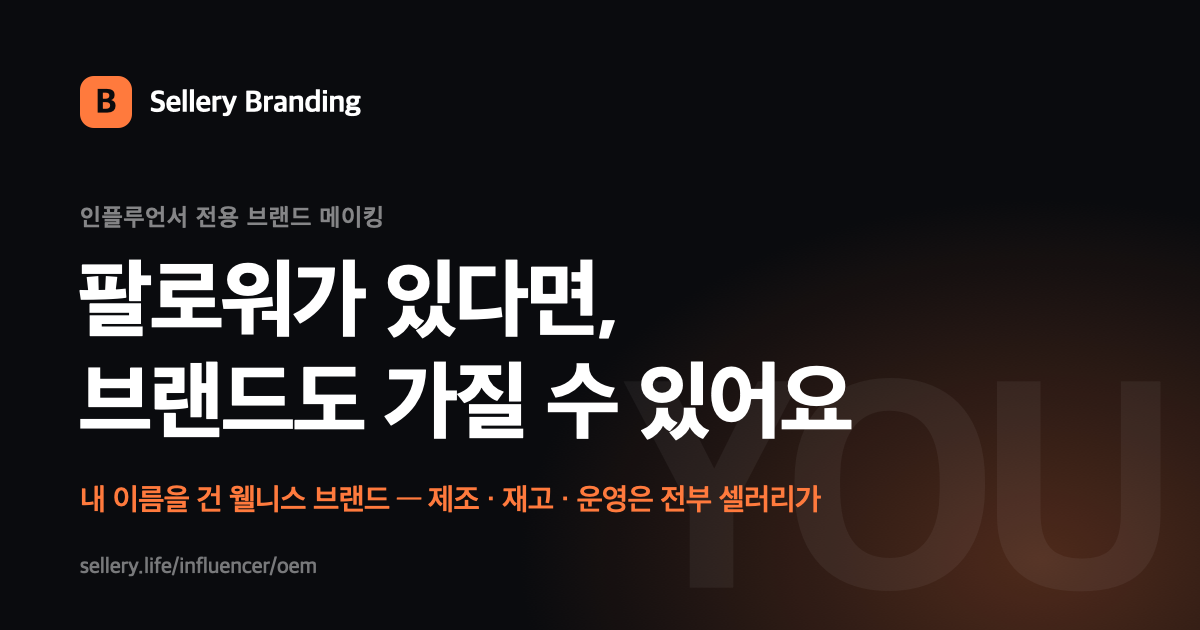
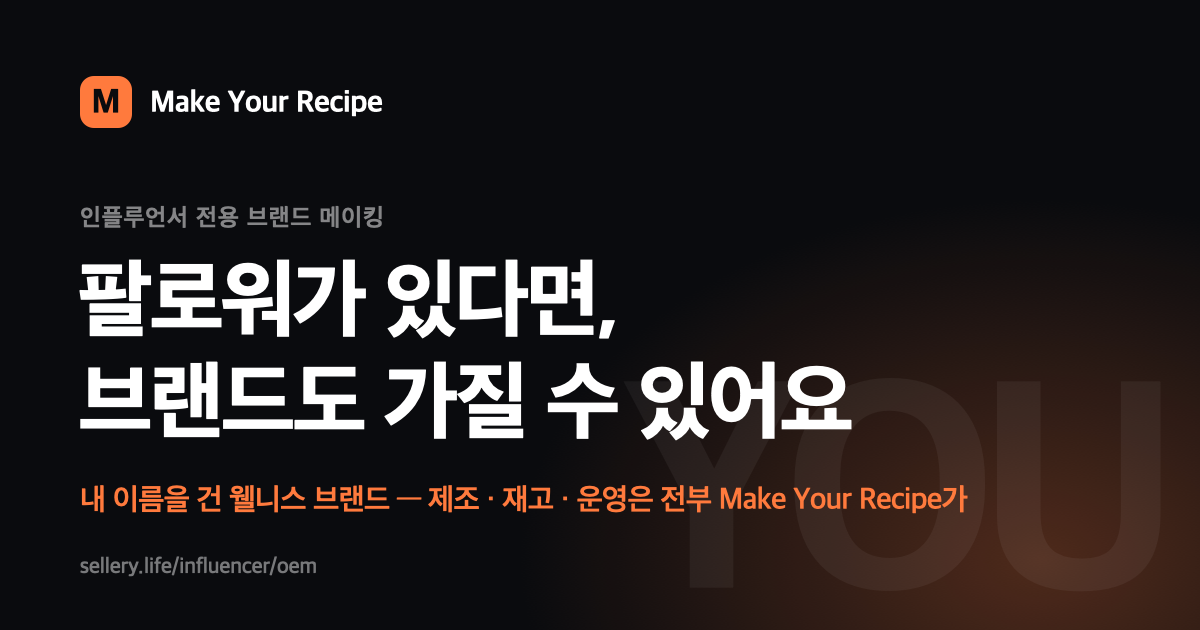
브랜딩 랜딩·퍼널 서비스 이름을 "Make Your Recipe"로: 워드마크(상단 바·데스크톱 레일) · 제목 · og:site_name · 슬라이드 문구("부담은 ~가" 등) · 슬랙 접수 태그 · OG 이미지 — 개발팀 결정

Changed region(s): [[0.0617, 0.1206, 0.3392, 0.181], [0.5858, 0.754, 0.8017, 0.8143]]

diff --git a/apps/branding/src/lib/components/landing/BurdenSlide.svelte b/apps/branding/src/lib/components/landing/BurdenSlide.svelte
@@ -1,12 +1,12 @@
 <script lang="ts">
 	import { d, eyebrowCls, h2Cls, rightCol, rise, slideCls, twoCol } from './shared';
 
-	/** 3장 · 부담은 셀러리가 — "내가 할 일" 칸의 짐이 "셀러리가 할 일" 칸으로 하나씩 건너가는 표. 칩을 누르면 아래 설명이 바뀐다. */
+	/** 3장 · 부담은 Make Your Recipe가 — "내가 할 일" 칸의 짐이 "Make Your Recipe가 할 일" 칸으로 하나씩 건너가는 표. 칩을 누르면 아래 설명이 바뀐다. */
 	let { active }: { active: boolean } = $props();
 
 	const BURDENS = [
-		{ t: '재고 부담', n: '0', d: '생산량 결정도, 창고도, 남는 재고도 셀러리가 책임져요.' },
-		{ t: '제조비용', n: '0', d: '제조 비용은 셀러리가 먼저 부담, 판매분만 정산해요.' },
+		{ t: '재고 부담', n: '0', d: '생산량 결정도, 창고도, 남는 재고도 Make Your Recipe가 책임져요.' },
+		{ t: '제조비용', n: '0', d: '제조 비용은 Make Your Recipe가 먼저 부담, 판매분만 정산해요.' },
 		{ t: '행정 리스크', n: '0', d: '인허가, 표시·광고 검토 등 전부 대행해요.' },
 		{ t: '전담 매니저', n: '1:1', d: '컨셉부터 론칭까지 담당자가 끝까지 함께해요.' },
 		{ t: '샘플 제작', n: '빠름', d: '검증된 제조 파트너와 빠르게 샘플을 확인해요.' }
@@ -27,16 +27,16 @@
 	const twoColLift = `${twoCol} mb-2 lg:mb-0`;
 </script>
 
-<section class={slideCls} aria-label="셀러리가 맡는 일">
+<section class={slideCls} aria-label="Make Your Recipe가 맡는 일">
 	<div class={twoColLift}>
 		<div class="relative">
-			<p class="{eyebrowCls} {rise(active)}" style={d(0)}>부담은 셀러리가</p>
+			<p class="{eyebrowCls} {rise(active)}" style={d(0)}>부담은 Make Your Recipe가</p>
 			<h2 class="{h2Cls} {rise(active)}" style={d(1)}>브랜드를 운영하는 데<br />필요한 모든 걸 준비했어요</h2>
 		</div>
 		<div class="{rightCol} mt-4 short:mt-3.5 lg:ml-auto lg:w-full lg:max-w-[560px] {rise(active)}" style={d(2)}>
 			<div class="grid grid-cols-2 gap-2 text-[13px] font-bold tracking-[0.04em] short:text-xs lg:gap-3 lg:text-[13px]">
 				<div class="px-1 text-fg/45">내가 할 일</div>
-				<div class="flex items-center gap-1.5 px-1 text-accent"><span class="size-1.5 rounded-full bg-accent"></span>셀러리가 할 일</div>
+				<div class="flex items-center gap-1.5 px-1 text-accent"><span class="size-1.5 rounded-full bg-accent"></span>Make Your Recipe가 할 일</div>
 			</div>
 			<div class="mt-2 flex flex-col gap-2 short:mt-1.5 short:gap-1 lg:mt-2.5 lg:gap-2">
 				{#each BURDENS as b, i (b.t)}
@@ -44,7 +44,7 @@
 					<div class="relative grid grid-cols-2 gap-2 lg:gap-3">
 						<div class="h-14 rounded-[14px] border border-dashed border-white/10 short:h-[42px] short:rounded-xl"></div>
 						<div class="h-14 rounded-[14px] border border-dashed border-white/10 short:h-[42px] short:rounded-xl"></div>
-						<!-- 슬라이드가 보이면 "내가 할 일" 칸의 짐이 "셀러리가 할 일" 칸으로 하나씩 건너간다.
+						<!-- 슬라이드가 보이면 "내가 할 일" 칸의 짐이 "Make Your Recipe가 할 일" 칸으로 하나씩 건너간다.
 						     떠날 때는 지연 없이 즉시 제자리로 — 되돌아가는 1.5초 안에 다시 들어오면 앞 칩만 다시 건너가고 뒤 칩은 오른쪽에 남는 어긋남을 막는다 -->
 						<button
 							type="button"

diff --git a/apps/branding/src/routes/+page.svelte b/apps/branding/src/routes/+page.svelte
@@ -1,13 +1,13 @@
 <script lang="ts">
 	import Funnel from '$lib/components/Funnel.svelte';
 	import type { PageProps } from './$types';
-	import { OEM_PUBLIC_URL, OG_IMAGE_HEIGHT, OG_IMAGE_URL, OG_IMAGE_WIDTH } from '$lib/site';
+	import { BRAND_NAME, OEM_PUBLIC_URL, OG_IMAGE_HEIGHT, OG_IMAGE_URL, OG_IMAGE_WIDTH } from '$lib/site';
 
 	/** 홈 = 랜딩(가로 슬라이드) + 제조의뢰 퍼널 한 화면. 폼 액션은 lib/server/apply-action.ts. */
 	let { form }: PageProps = $props();
 
-	const TITLE = '셀러리 브랜딩 — 내 이름을 건 웰니스 브랜드';
-	const OG_DESCRIPTION = '팔로워가 있다면, 브랜드도 가질 수 있어요. 제조·재고·운영은 전부 셀러리가 할게요.';
+	const TITLE = `${BRAND_NAME} — 내 이름을 건 웰니스 브랜드`;
+	const OG_DESCRIPTION = `팔로워가 있다면, 브랜드도 가질 수 있어요. 제조·재고·운영은 전부 ${BRAND_NAME}가 할게요.`;
 </script>
 
 <!-- canonical · og:url 은 공개 주소(sellery.life/influencer/oem) — 이 앱의 실제 호스트 sellery-branding.vercel.app 이 중복 주소로 색인되지 않게.
@@ -16,11 +16,11 @@
 	<title>{TITLE}</title>
 	<meta
 		name="description"
-		content="재고 부담, 제조 비용, 행정 리스크 없이 나만의 다이어트·이너뷰티 웰니스 브랜드를 만들고 판매를 시작하세요. 제조부터 배송, CS까지 셀러리가 맡습니다."
+		content="재고 부담, 제조 비용, 행정 리스크 없이 나만의 다이어트·이너뷰티 웰니스 브랜드를 만들고 판매를 시작하세요. 제조부터 배송, CS까지 {BRAND_NAME}가 맡습니다."
 	/>
 	<link rel="canonical" href={OEM_PUBLIC_URL} />
 	<meta property="og:type" content="website" />
-	<meta property="og:site_name" content="셀러리 브랜딩" />
+	<meta property="og:site_name" content={BRAND_NAME} />
 	<meta property="og:locale" content="ko_KR" />
 	<meta property="og:url" content={OEM_PUBLIC_URL} />
 	<meta property="og:title" content={TITLE} />

diff --git a/apps/branding/src/routes/apply/+page.svelte b/apps/branding/src/routes/apply/+page.svelte
@@ -1,12 +1,12 @@
 <script lang="ts">
 	import Funnel from '$lib/components/Funnel.svelte';
 	import type { PageProps } from './$types';
-	import { OEM_PUBLIC_URL, OG_IMAGE_HEIGHT, OG_IMAGE_URL, OG_IMAGE_WIDTH } from '$lib/site';
+	import { BRAND_NAME, OEM_PUBLIC_URL, OG_IMAGE_HEIGHT, OG_IMAGE_URL, OG_IMAGE_WIDTH } from '$lib/site';
 
 	/** 랜딩을 건너뛰고 첫 질문(카테고리)부터 시작하는 바로 가기 — 외부 링크·제안서용. 화면과 액션은 홈과 같다. */
 	let { form }: PageProps = $props();
 
-	const TITLE = '제조의뢰 — 셀러리 브랜딩';
+	const TITLE = `제조의뢰 — ${BRAND_NAME}`;
 	const DESCRIPTION = '웰니스 브랜드 제조의뢰 — 카테고리, 제형, 패키지, 맛을 정하고 연락처를 남기면 전담 매니저가 연락드려요.';
 	const CANONICAL = `${OEM_PUBLIC_URL}/apply`;
 </script>
@@ -18,7 +18,7 @@
 	<meta name="robots" content="noindex" />
 	<link rel="canonical" href={CANONICAL} />
 	<meta property="og:type" content="website" />
-	<meta property="og:site_name" content="셀러리 브랜딩" />
+	<meta property="og:site_name" content={BRAND_NAME} />
 	<meta property="og:locale" content="ko_KR" />
 	<meta property="og:url" content={CANONICAL} />
 	<meta property="og:title" content={TITLE} />

diff --git a/apps/branding/src/lib/components/landing/HeroSlide.svelte b/apps/branding/src/lib/components/landing/HeroSlide.svelte
@@ -31,7 +31,7 @@
 			<p class="{eyebrowCls} tracking-[0.02em] {rise(active)}" style={d(0)}>인플루언서 전용 브랜드 메이킹</p>
 			<h1 class="mt-3 text-[38px] leading-[1.2] font-extrabold tracking-[-0.035em] text-balance text-fg lg:text-6xl lg:leading-[1.12] {rise(active)}" style={d(1)}>팔로워가 있다면,<br />브랜드도<br />가질 수 있어요</h1>
 			<p class="mt-[18px] text-[15px] leading-[1.65] text-pretty text-accent lg:max-w-[520px] lg:text-lg {rise(active)}" style={d(2)}>
-				다이어트, 이너뷰티 — 내 이름을 건 웰니스 브랜드. 만드는 일도, 쌓이는 재고도, 복잡한 행정도 전부 셀러리가 맡을게요.
+				다이어트, 이너뷰티 — 내 이름을 건 웰니스 브랜드. 만드는 일도, 쌓이는 재고도, 복잡한 행정도 전부 Make Your Recipe가 맡을게요.
 			</p>
 			<button type="button" onclick={onnext} class="mt-[22px] flex items-center gap-2 text-[13px] font-semibold text-fg/50 hover:text-fg/80 {rise(active)}" style={d(3)}>
 				<span class="lg:hidden">옆으로 넘겨 어떻게 진행되는지 보기</span>

diff --git a/apps/branding/src/lib/components/landing/ProcessSlide.svelte b/apps/branding/src/lib/components/landing/ProcessSlide.svelte
@@ -7,7 +7,7 @@
 	const PROCESS = [
 		{ n: '01', t: '제조의뢰', stage: '지금 여기', d: '만들고 싶은 제품을 알려주세요. 폼 하나 작성이면 충분해요.' },
 		{ n: '02', t: '컨셉 · 샘플', stage: '전담 매니저와', d: '전담 매니저와 브랜드 컨셉을 잡고, 샘플을 직접 받아 확인해요.' },
-		{ n: '03', t: '생산 · 입고', stage: '검증된 파트너가', d: '검증된 제조 파트너가 생산하고, 셀러리 물류센터로 바로 입고돼요.' },
+		{ n: '03', t: '생산 · 입고', stage: '검증된 파트너가', d: '검증된 제조 파트너가 생산하고, Make Your Recipe 물류센터로 바로 입고돼요.' },
 		{ n: '04', t: '내 샵 오픈', stage: '판매 시작', d: '내 이름을 건 샵이 열려요. 링크 하나 공유하면 판매 시작이에요.' }
 	];
 	let procSel = $state(0);

diff --git a/apps/branding/src/lib/site.ts b/apps/branding/src/lib/site.ts
@@ -1,3 +1,6 @@
+/** 이 랜딩이 내세우는 서비스 이름 — 2026-10-22 개발팀 결정으로 "셀러리/셀러리 브랜딩" 대신 쓴다. 제목 · og:site_name · 슬랙 접수 태그가 이 값을 쓰고, 화면의 워드마크(Landing · Rail)와 OG 이미지는 같은 글자를 직접 적는다. */
+export const BRAND_NAME = 'Make Your Recipe';
+
 /** 브랜딩 랜딩의 공개 주소 — 광고·제안서·공유 링크가 가리키는 곳 (대표 결정 2026-10-19).
  *  이 앱이 보는 호스트는 리라이트 뒤라 sellery-branding.vercel.app 이므로 request.url 을 그대로 쓰면 안 되고,
  *  canonical · og:url · 메타 전환 API event_source_url 모두 이 값에 경로를 붙여 만든다(브라우저·서버 공용 — 비밀값 없음). */

diff --git a/apps/branding/src/lib/components/Landing.svelte b/apps/branding/src/lib/components/Landing.svelte
@@ -88,8 +88,8 @@
 	<!-- 상단 바 — 슬라이드 위에 떠 있고 터치는 통과시킨다 -->
 	<div class="pointer-events-none absolute inset-x-0 top-0 z-10 flex h-[60px] items-center justify-between px-5 lg:h-[72px] lg:px-16">
 		<div class="flex items-center gap-2.5 text-[15px] font-bold tracking-tight text-fg">
-			<span class="grid size-7 place-items-center rounded-lg bg-accent text-[15px] font-extrabold text-bg">B</span>
-			Sellery Branding
+			<span class="grid size-7 place-items-center rounded-lg bg-accent text-[15px] font-extrabold text-bg">M</span>
+			Make Your Recipe
 		</div>
 		<span class="text-xs font-semibold text-fg/50 tabular-nums" aria-live="polite">{slide + 1} / {SLIDES}</span>
 	</div>

diff --git a/apps/branding/src/lib/server/apply-action.ts b/apps/branding/src/lib/server/apply-action.ts
@@ -16,7 +16,7 @@ import {
 } from '$lib/utils/apply-options';
 import { escapeSlack, notifySlack } from './slack';
 import { sendMetaLeadEvent } from './meta-capi';
-import { publicUrlOf } from '$lib/site';
+import { BRAND_NAME, publicUrlOf } from '$lib/site';
 import { formatPhone, PHONE_RE } from '$lib/utils/phone';
 import { RATE_LIMIT_MESSAGE, rateLimit } from './rate-limit';
 
@@ -129,7 +129,7 @@ export const applyActions: Actions = {
 
 		const delivered = await notifySlack(
 			[
-				'*새 제조의뢰 접수* [셀러리 브랜딩]',
+				`*새 제조의뢰 접수* [${BRAND_NAME}]`,
 				`• 활동명/채널: ${escapeSlack(name)}`,
 				`• 연락처: ${phone}`,
 				`• 카테고리: ${category}`,

diff --git a/apps/branding/src/lib/components/funnel/Rail.svelte b/apps/branding/src/lib/components/funnel/Rail.svelte
@@ -15,8 +15,8 @@
 
 <aside class="hidden min-h-0 flex-col gap-7 border-r border-white/[0.07] px-8 pt-7 pb-8 lg:flex">
 	<button type="button" onclick={onrestart} class="flex items-center gap-2.5 text-left text-[15px] font-bold tracking-tight text-fg">
-		<span class="grid size-7 place-items-center rounded-lg bg-accent text-[15px] font-extrabold text-bg">B</span>
-		Sellery Branding
+		<span class="grid size-7 place-items-center rounded-lg bg-accent text-[15px] font-extrabold text-bg">M</span>
+		Make Your Recipe
 	</button>
 	<div>
 		<div class="flex items-baseline justify-between">

diff --git a/apps/branding/src/app.css b/apps/branding/src/app.css
@@ -1,6 +1,6 @@
 @import 'tailwindcss';
 
-/* 셀러리 브랜딩 랜딩+퍼널 전용 테마 — 기존 packages/ui 팔레트와 무관한 독립 UI.
+/* Make Your Recipe(구 셀러리 브랜딩) 랜딩+퍼널 전용 테마 — 기존 packages/ui 팔레트와 무관한 독립 UI.
    다크 베이스 + 웜 앰버 포인트. 여기 남기는 건 토큰과 "여러 화면이 함께 쓰는" 애니메이션뿐 —
    레이아웃·색상·호버는 전부 컴포넌트 안에서 Tailwind 유틸리티로 인라인 작성한다. */
 @theme {

diff --git a/docs/branding-plan.md b/docs/branding-plan.md
@@ -2,6 +2,8 @@
 
 > 2026-10-13 시작 · PR #153 · 2026-10-14 다크 테마 개편 · 제조의뢰 폼 · **2026-10-15 전면 재작성 — 랜딩(가로 7슬라이드)과 제조의뢰 퍼널을 한 화면으로 합침**(Claude Design "Sellery Landing Funnel" mobile · PC 두 안을 같은 컴포넌트의 `lg:` 분기로 구현).
 
+**서비스 이름은 "Make Your Recipe"**(2026-10-22 개발팀 결정 — 화면·제목·og:site_name·슬랙 접수 태그·OG 이미지에서 "셀러리/셀러리 브랜딩" 대신 씀 · `lib/site.ts` `BRAND_NAME`). 저장소 폴더·Vercel 프로젝트·공개 주소(`sellery.life/influencer/oem`)는 그대로.
+
 인플루언서가 자기 이름을 건 웰니스 브랜드(다이어트·피부·건강)를 만들 수 있게 안내하고 **제조의뢰를 받는** 페이지.
 핵심 메시지: 재고 부담 · 제조 비용 · 행정 리스크는 셀러리가 부담하고, 인플루언서에게는 자기 샵을 열어준다.
 
